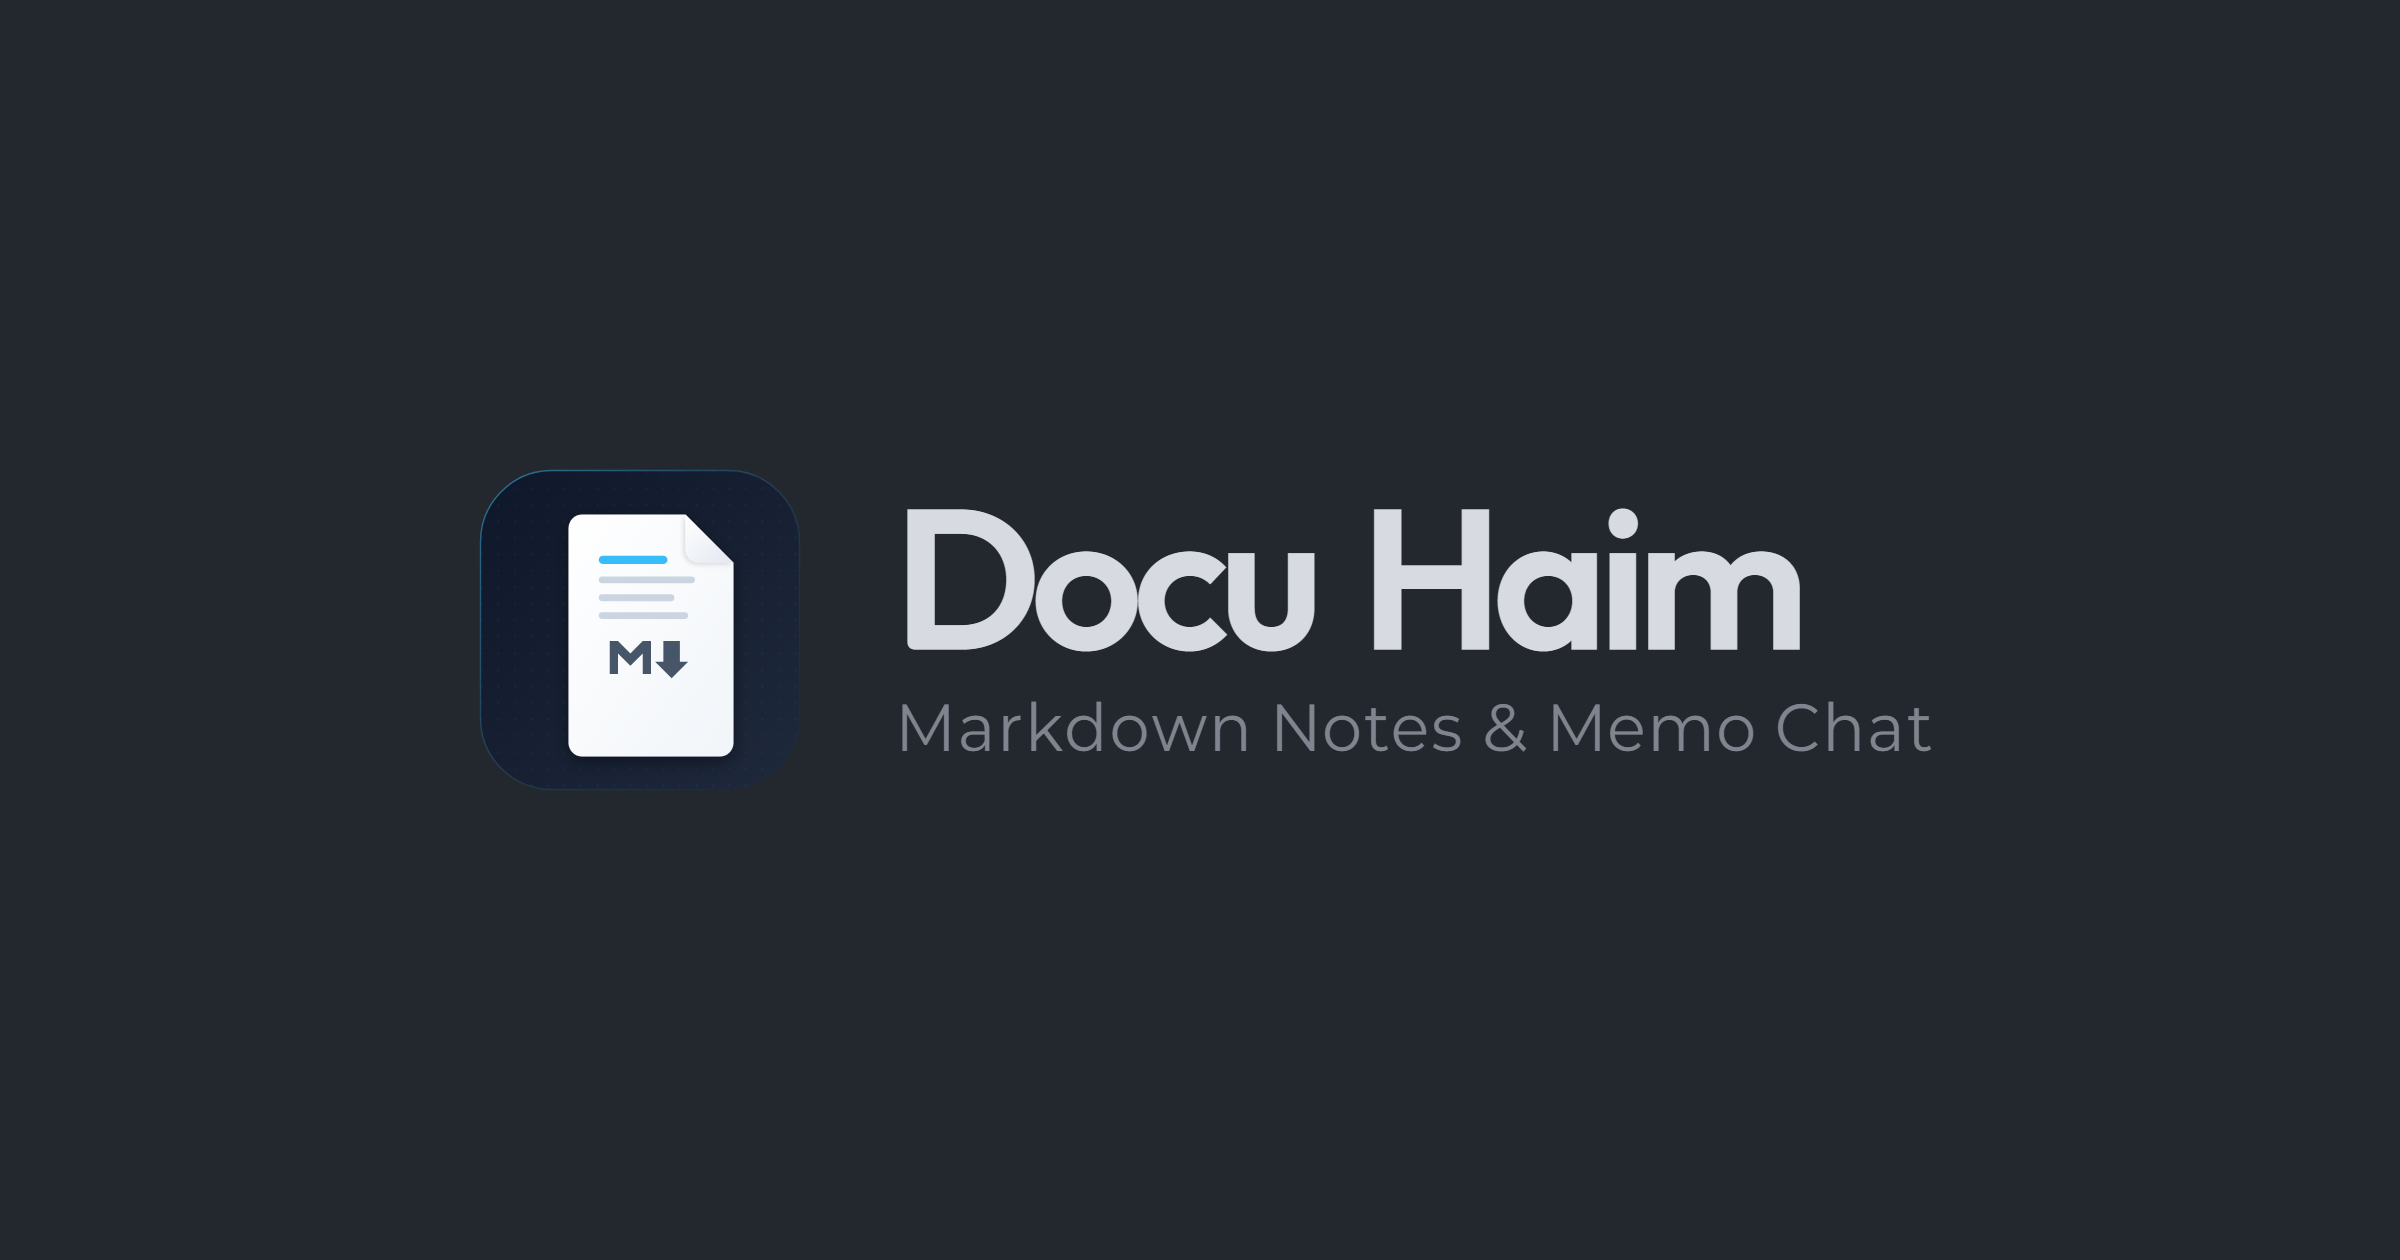
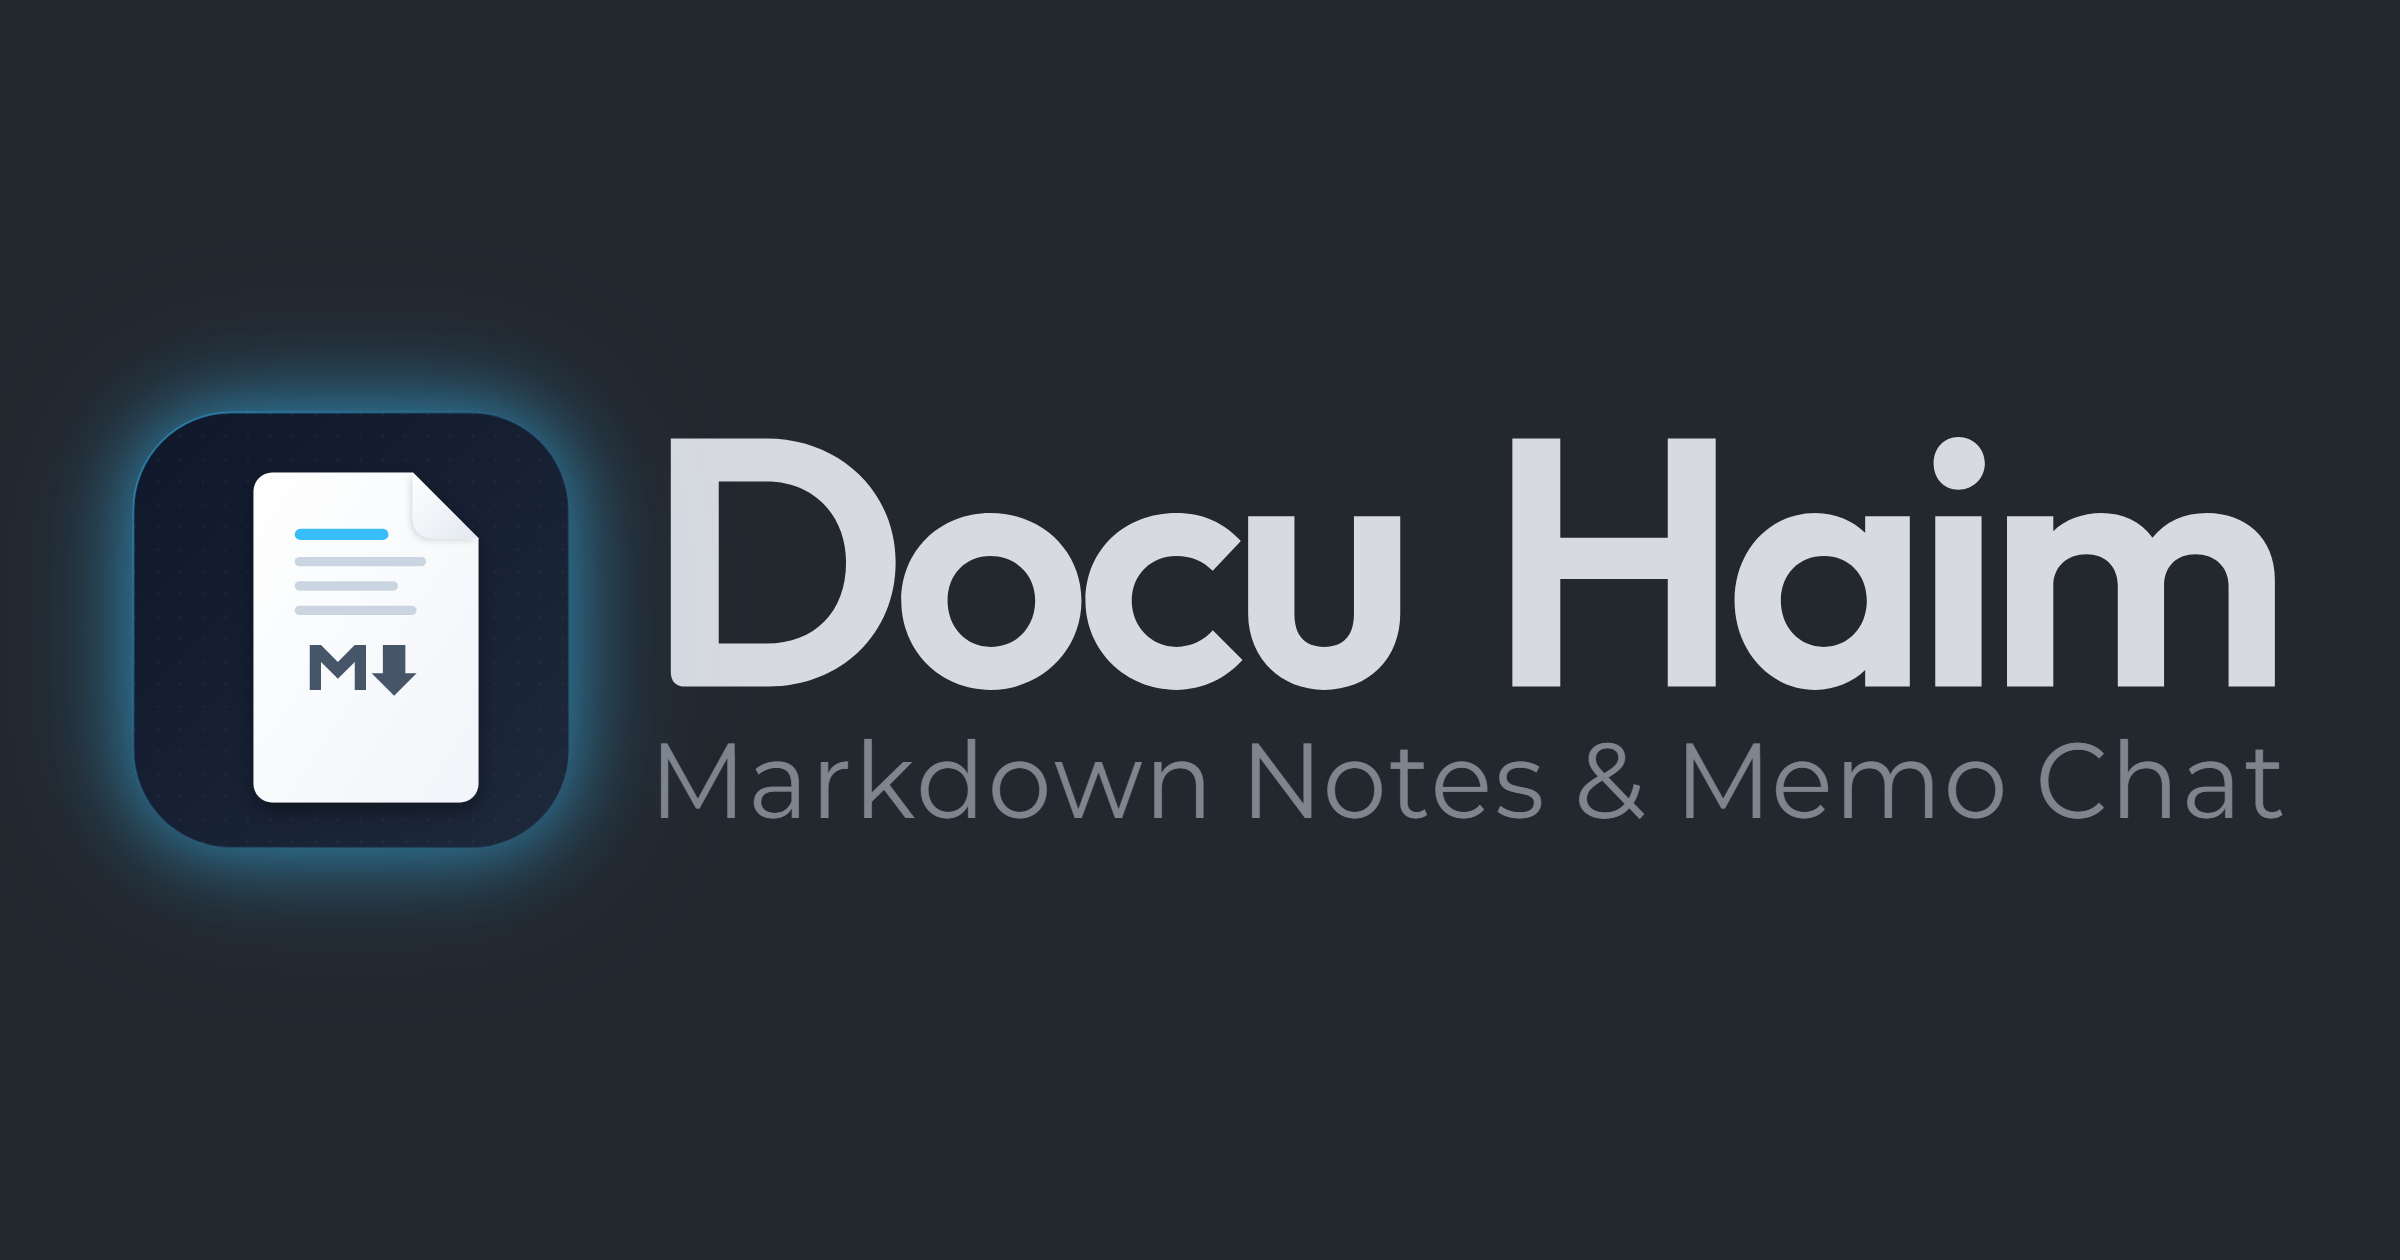
feat(og-image): update Open Graph image and enhance styling for consistency
- Replaced the Open Graph image with a new version to improve visual representation.
- Adjusted CSS styles in `og-image.html` for better layout and responsiveness, including changes to icon sizing and text alignment.
- Introduced CSS variables for size management, enhancing maintainability and flexibility in design.

These updates ensure a more cohesive and visually appealing Open Graph representation across the application.

Changed region(s): [[0.0312, 0.2786, 0.9688, 0.7119]]

diff --git a/scripts/og-image.html b/scripts/og-image.html
@@ -34,6 +34,8 @@
         height: 630px;
         overflow: hidden;
         background: #23272e;
+        --size: 15rem;
+
       }
 
       .frame {
@@ -42,34 +44,48 @@
         display: flex;
         align-items: center;
         justify-content: center;
+        /* Tight margins — lockup nearly fills the canvas */
         background: #23272e;
       }
 
       .lockup {
         display: flex;
         align-items: center;
-        gap: 40px;
+        justify-content: center;
+        gap: 30px;
+        width: 100%;
+        max-width: 1160px;
       }
 
       .icon {
-        width: 176px;
-        height: 176px;
+        width: var(--size);
+        height: var(--size);
         flex-shrink: 0;
+        /* Match main empty-state dark glow (sky-400) */
+        filter:
+          drop-shadow(0 0 18px rgba(56, 189, 248, 0.55))
+          drop-shadow(0 0 36px rgba(56, 189, 248, 0.3));
       }
 
       .text {
         display: flex;
+        flex: 0 0 auto;
+        width: max-content;
+
         flex-direction: column;
         align-items: flex-start;
+        justify-content: center;
         gap: 14px;
+        min-width: 0;
+        font-size: calc(var(--size) * 0.2);
       }
 
       .title {
         font-family: A2z, sans-serif;
         font-weight: 700;
-        font-size: 92px;
-        line-height: 1;
-        letter-spacing: -0.03em;
+        font-size: 3.1em;
+        line-height: 0.92;
+        letter-spacing: -0.02em;
         color: #d7dae0;
         white-space: nowrap;
       }
@@ -77,9 +93,9 @@
       .desc {
         font-family: Paperozi, sans-serif;
         font-weight: 400;
-        font-size: 30px;
-        line-height: 1.2;
-        letter-spacing: 0.06em;
+        font-size: 1em;
+        line-height: 1.1;
+        letter-spacing: 0.05em;
         color: #7f848e;
         white-space: nowrap;
       }
